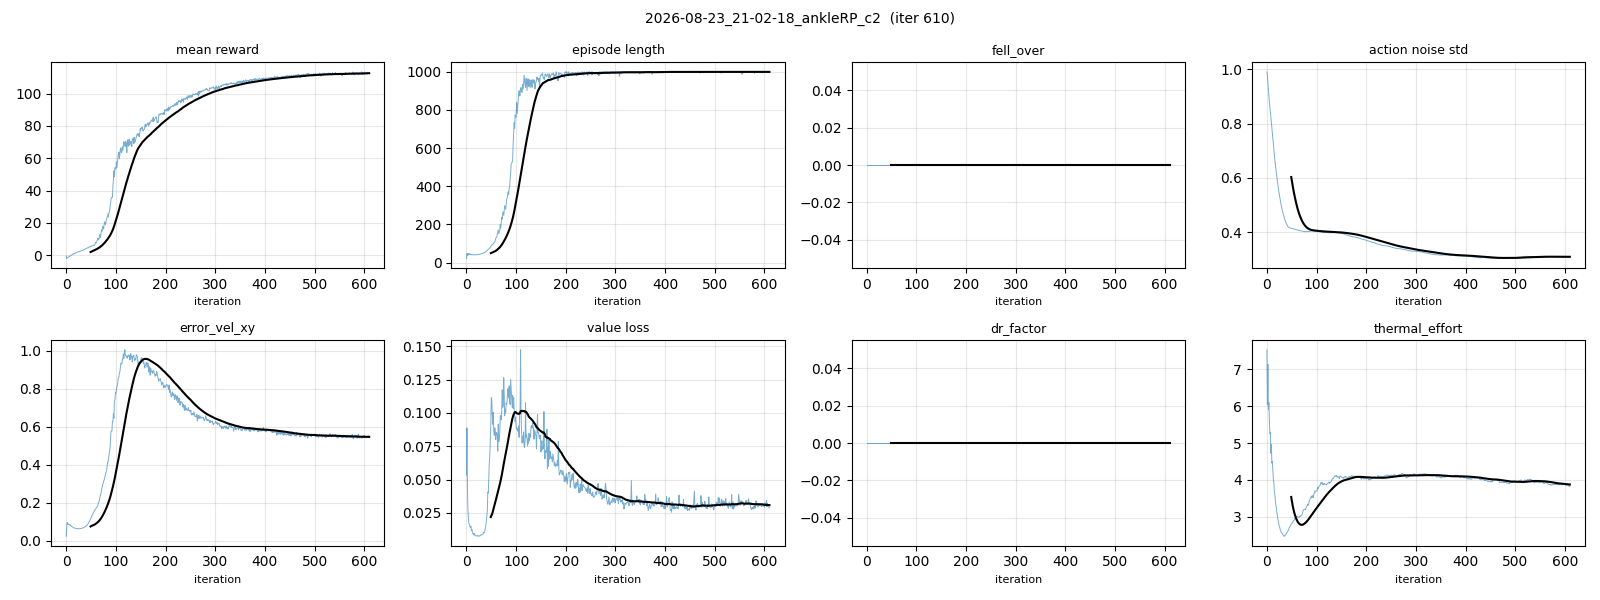
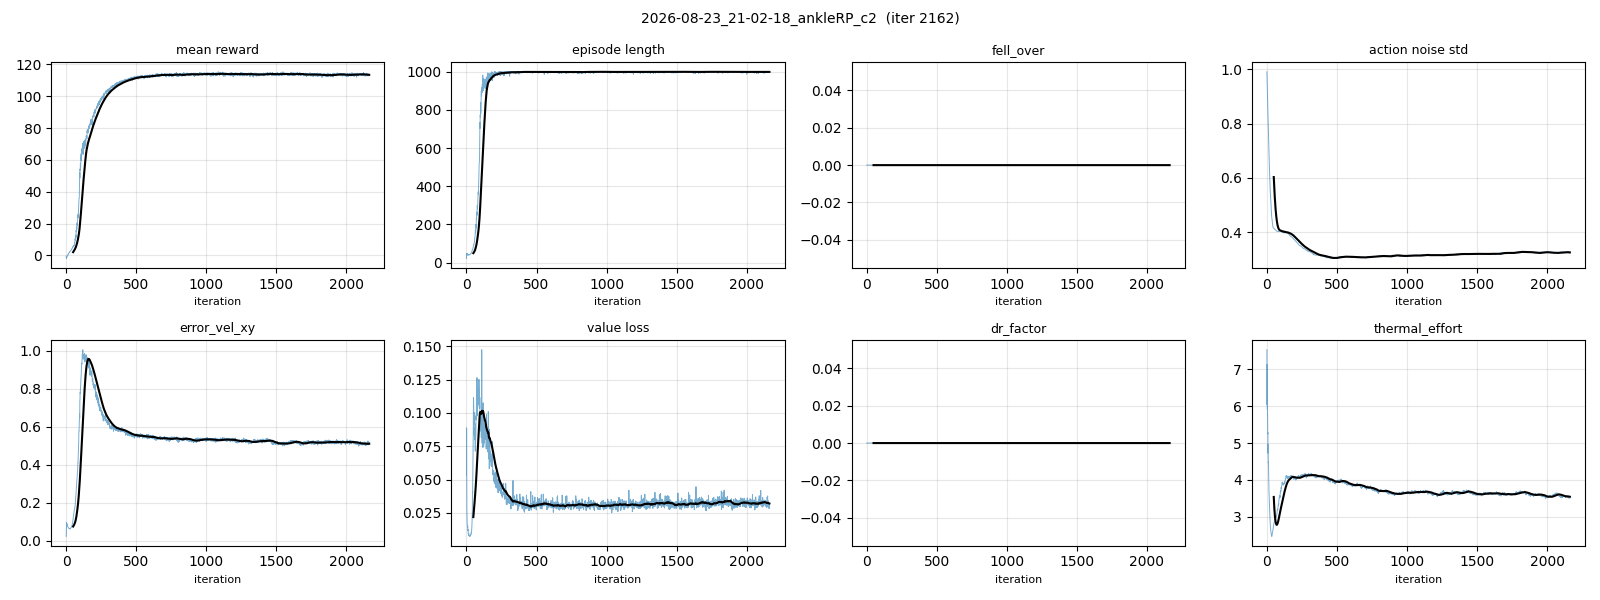
registry/canvas: latest hourly snapshot pointers (AB/RP)

diff --git a/docs/66_experiment_registry.md b/docs/66_experiment_registry.md
@@ -113,8 +113,8 @@
 | 런 | 변인 (vs 직전) | 정량 | 판정 |
 |---|---|---|---|
 | ~~ankleAB_c1 / ankleRP_c1~~ (`20-45-09/27`, ✗ iter 172 중단) | 팔이 영점(매달림)으로 weld → hip_roll 링크와 14 mm 관통 | — | ✗ 상체 팔 15° 외전 고정 후 c2로 재시작 |
-| **ankleAB_c2 → c2r** "flat-2.5max gen21-bundle curriculum-dr+push ankle-AB-loop (2026-08-23)" (`21-02-10` → OOM iter1252 → `23-17-35_ankleAB_c2r` resume model_1200, 🔄학습중 총 32k) [[2026-08-23_ankleAB_c2]] | vs gen21_bent_p2: 프린트 질량·실측 모터(RS04 J .0163/b .0095/tc .269, RS03 .0153/.0223/.285)·T-N 곡선·**폐루프 발목(크랭크 RS03 ×2, Kp 22.3/Kd 1.41/60 N·m)**·단일 런 커리큘럼(DR 10k→20k, vx 단계 2.5@16k)·16384 env·상체 weld+팔 15° 외전 고정·hip_yaw ±45° | iter 610: reward 109·fell 0; iter 1200 분석(93 §5b): 보행 발목 17° 사용·토크 12.8 N·m·GRFc 1.39 BW, **정지 잔떨림+0.4 Hz 스웨이** | 🔄 CONTINUE (4k 게이트서 정지 떨림 재확인) |
-| **ankleRP_c2** "flat-2.5max gen21-bundle curriculum-dr+push ankle-RP-serial (2026-08-23)" (`2026-08-23_21-02-18`, 🔄학습중 32k) [[2026-08-23_ankleRP_c2]] | ankleAB_c2와 **단일변인 = 발목 기구**: 직렬 pitch/roll(Kp 28.5/Kd 1.81) + 루프 자코비안 크랭크공간 클램프(±60, T-N) + 반영 관성/마찰. env.yaml diff = 발목 항목만(launch 직후 확인) | iter 610: reward 113·fell 0; iter 1200 분석: 발목 10° 사용·**bang-bang 목표(−40↔+35°) PD 포화 토크 스파이크**·GRFc 1.51 BW | 🔄 CONTINUE |
+| **ankleAB_c2 → c2r** "flat-2.5max gen21-bundle curriculum-dr+push ankle-AB-loop (2026-08-23)" (`21-02-10` → OOM iter1252 → `23-17-35_ankleAB_c2r` resume model_1200, 🔄학습중 총 32k) [[2026-08-23_ankleAB_c2]] | vs gen21_bent_p2: 프린트 질량·실측 모터(RS04 J .0163/b .0095/tc .269, RS03 .0153/.0223/.285)·T-N 곡선·**폐루프 발목(크랭크 RS03 ×2, Kp 22.3/Kd 1.41/60 N·m)**·단일 런 커리큘럼(DR 10k→20k, vx 단계 2.5@16k)·16384 env·상체 weld+팔 15° 외전 고정·hip_yaw ±45° | iter 610: reward 109·fell 0; iter 1200 분석(93 §5b): 보행 발목 17° 사용·토크 12.8 N·m·GRFc 1.39 BW, **정지 잔떨림+0.4 Hz 스웨이**; 최신 스냅샷 iter 1950: reward 114.2·fell 0.000 | 🔄 CONTINUE (4k 게이트서 정지 떨림 재확인) |
+| **ankleRP_c2** "flat-2.5max gen21-bundle curriculum-dr+push ankle-RP-serial (2026-08-23)" (`2026-08-23_21-02-18`, 🔄학습중 32k) [[2026-08-23_ankleRP_c2]] | ankleAB_c2와 **단일변인 = 발목 기구**: 직렬 pitch/roll(Kp 28.5/Kd 1.81) + 루프 자코비안 크랭크공간 클램프(±60, T-N) + 반영 관성/마찰. env.yaml diff = 발목 항목만(launch 직후 확인) | iter 610: reward 113·fell 0; iter 1200 분석: 발목 10° 사용·**bang-bang 목표(−40↔+35°) PD 포화 토크 스파이크**·GRFc 1.51 BW; 최신 스냅샷 iter 2162: reward 113.6·fell 0.000 | 🔄 CONTINUE |
 
 ## 9. 측정 캠페인 (2026-07-11, fc/fcp 표준) — 데이터 대응표
 | 태그 | 정책 | 상태 |

diff --git a/docs/experiments/2026-08-23_ankleAB_c2.md b/docs/experiments/2026-08-23_ankleAB_c2.md
@@ -36,3 +36,4 @@
 | 08-23 22:55 | 1287 | 113.8 (50avg 114.2) | 1000 | 0.320 | 0.0308 | 2.23 | -0.0019 / 4.4e-04 | 0.000 / 0.000 | 0.518 / 0.456 | 0.00 / 0.8 | 4.09 | (자동 스냅샷, 판정은 게이트 리뷰에서) |
 
 - 2026-08-23 23:40 iter 1200 발목 사용/떨림 분석 → [[93_ankle_ab_rp_comparison_plan]] §5b (AB: 정지 잔떨림·스웨이, 보행 발목 17° 사용 / RP: bang-bang 목표·PD 포화 토크 스파이크). GRF는 접촉-only `GRFc_*`로.
+| 08-24 00:21 | 1950 | 114.2 (50avg 114.0) | 1000 | 0.326 | 0.0307 | 2.52 | -0.0025 / 3.0e-04 | 0.000 / 0.000 | 0.519 / 0.463 | 0.00 / 0.8 | 4.05 | (자동 스냅샷, 판정은 게이트 리뷰에서) |

diff --git a/docs/experiments/2026-08-23_ankleRP_c2.md b/docs/experiments/2026-08-23_ankleRP_c2.md
@@ -36,3 +36,4 @@
 | 08-23 22:55 | 1286 | 113.2 (50avg 113.9) | 1000 | 0.317 | 0.0347 | 2.21 | -0.0033 / 4.4e-04 | 0.000 / 0.000 | 0.523 / 0.455 | 0.00 / 0.8 | 3.62 | (자동 스냅샷, 판정은 게이트 리뷰에서) |
 
 - 2026-08-23 23:40 iter 1200 발목 사용/떨림 분석 → [[93_ankle_ab_rp_comparison_plan]] §5b (AB: 정지 잔떨림·스웨이, 보행 발목 17° 사용 / RP: bang-bang 목표·PD 포화 토크 스파이크). GRF는 접촉-only `GRFc_*`로.
+| 08-24 00:22 | 2162 | 113.6 (50avg 113.5) | 1000 | 0.324 | 0.0319 | 2.52 | -0.0030 / 6.7e-04 | 0.000 / 0.042 | 0.507 / 0.466 | 0.00 / 0.8 | 3.51 | (자동 스냅샷, 판정은 게이트 리뷰에서) |
